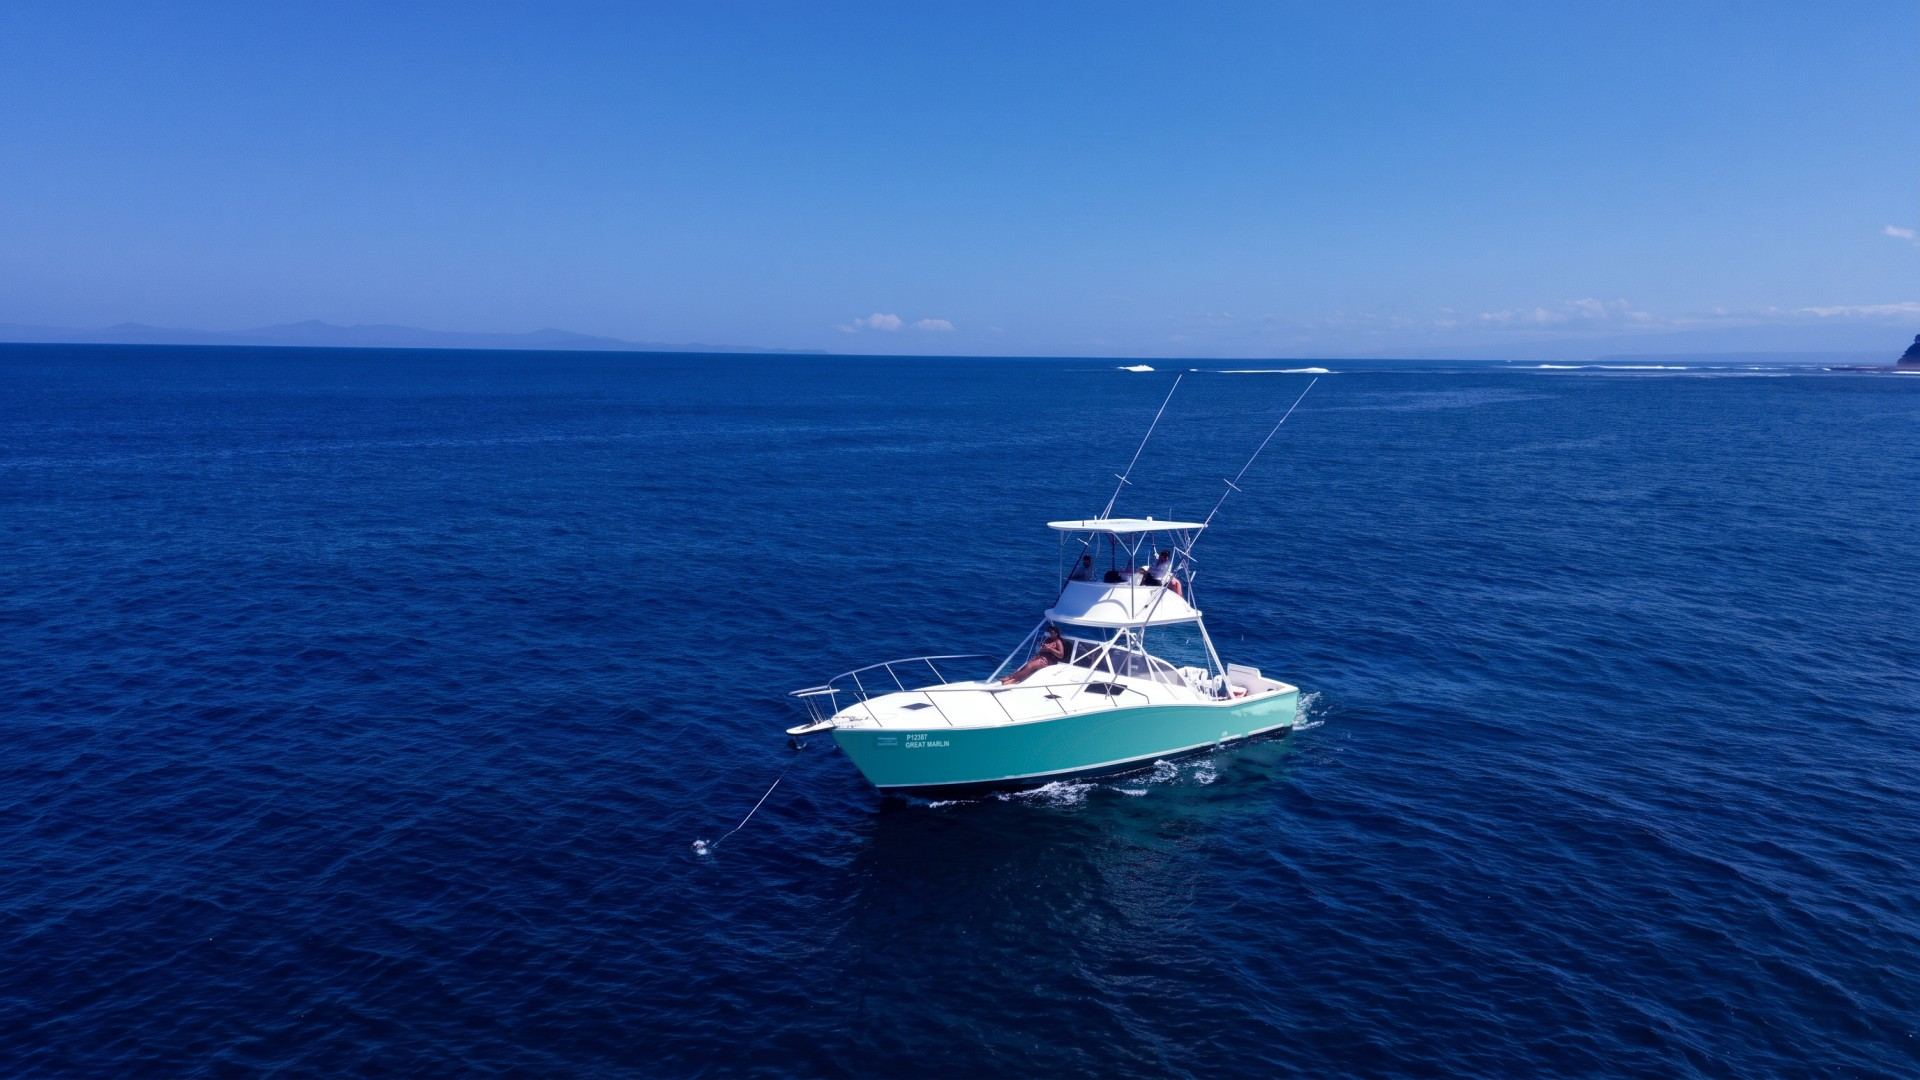
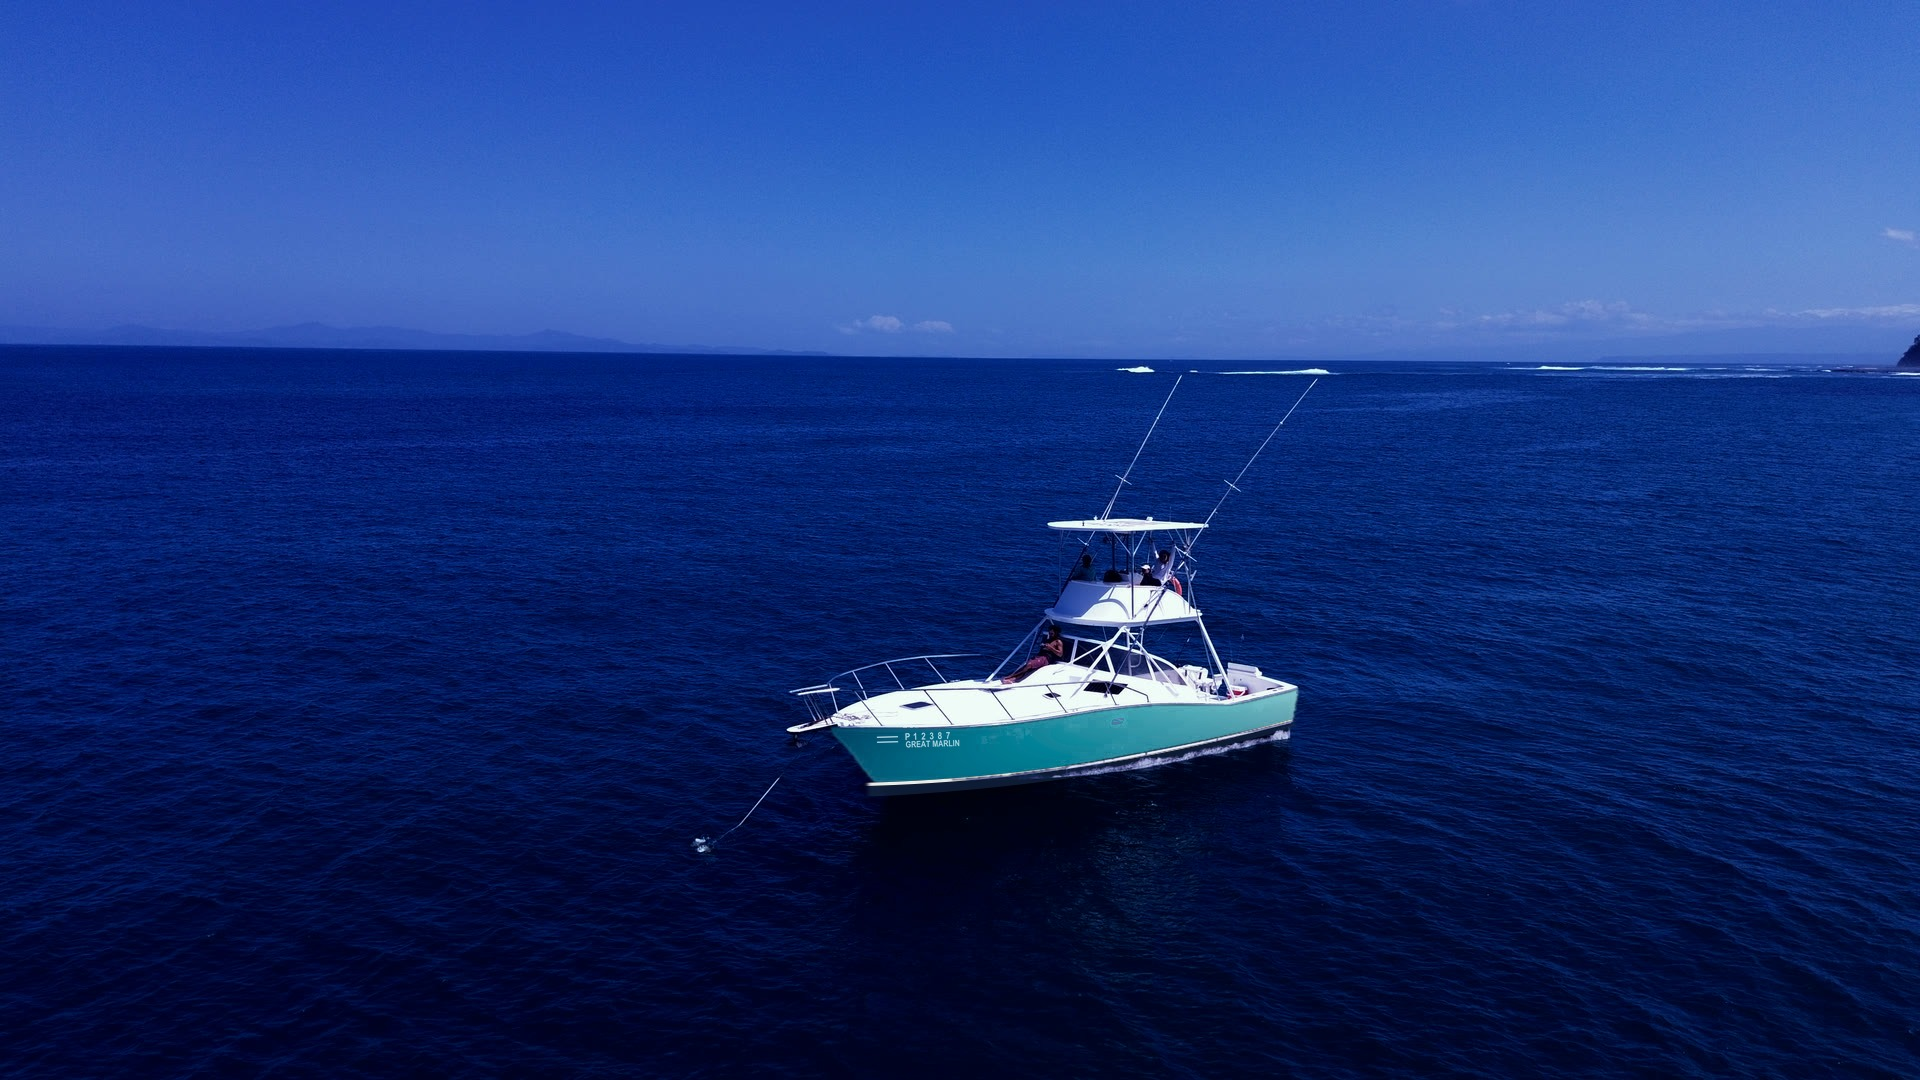
Booking photo: rebuilt on the real photo so the boat shape is exact

diff --git a/index.html b/index.html
@@ -834,7 +834,7 @@ a{color:inherit}
 
 <!-- ================= BOOK ================= -->
 <section id="book" class="on-dark">
-  <div class="bg"><img src="assets/book-boat.jpg?v=11" alt="The Great Marlin from the air in deep blue water" loading="lazy" decoding="async"></div>
+  <div class="bg"><img src="assets/book-boat.jpg?v=12" alt="The Great Marlin from the air in deep blue water" loading="lazy" decoding="async"></div>
   <div class="wrap">
     <h2 class="d">Put a date on the water.</h2>
     <p>Message us. Dates, crew, what you want to catch. Answers come fast.</p>

diff --git a/book.html b/book.html
@@ -66,7 +66,7 @@
 
   <!-- ============ HERO ============ -->
   <header class="pg-hero pg-hero-short">
-    <div class="pg-hero-media"><img src="assets/book-boat.jpg?v=11" alt="The Great Marlin in her own deep water, from the air" fetchpriority="high"></div>
+    <div class="pg-hero-media"><img src="assets/book-boat.jpg?v=12" alt="The Great Marlin in her own deep water, from the air" fetchpriority="high"></div>
     <div class="pg-hero-grade"></div>
     <div class="pg-hero-inner shell">
       <h1>Put a date on the water.</h1>
